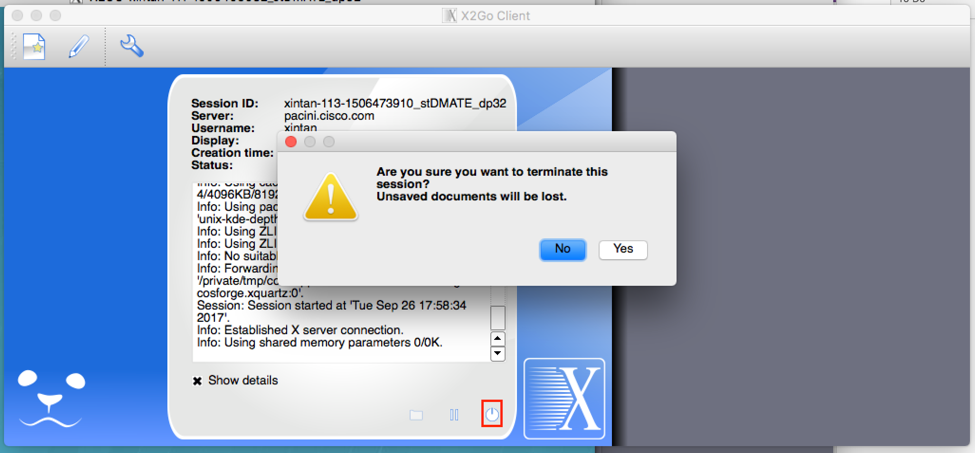
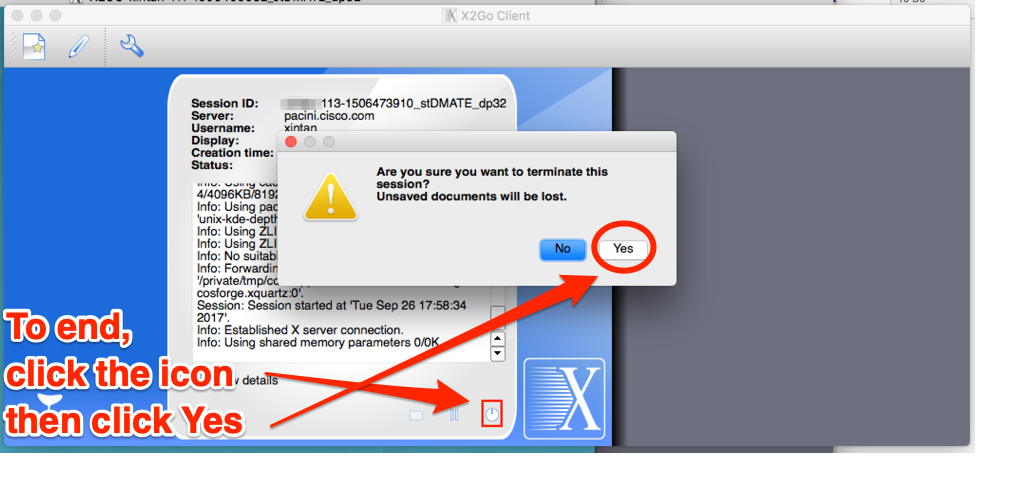
Fixed X2Go and matlab loginf for pacini

diff --git a/faq.html b/faq.html
@@ -70,7 +70,7 @@
 		<li> <a href="#arcetri-account">How can I obtain an Arcetri account?</a>
 		<li> <a href="#unix-arcetri-key">How do I use Unix/Linux/macOS to generate SSH keys?</a>
 		<li> <a href="#windows-arcetri-key">How do I use Windows to generate SSH keys?</a>
-		<li> <a href="#arcetri-login">How do I login to Arcetri?</a>
+		<li> <a href="#arcetri-login">How do I login to the pacini head node on Arcetri?</a>
 		<li> <a href="#arcetri-contact">Who do I contact if I need help with Arcetri?</a>
 		<li> <a href="#arcetri-names">What is the meaning behind the names, Pacini, Franco and Arcetri?</a>
 		<li> <a href="#arcetri-differences">What is the difference between Pacini and Arcetri?</a>
@@ -170,7 +170,7 @@
 			your VPN password over the phone.
 			</p>
 			<p>
-			<a name="windows-arcetri-key"></a>
+			<a name="unix-arcetri-key"></a>
 			After your account is created, see how to login to Arcetri.
 			</p>
 		    </div>
@@ -214,7 +214,7 @@
 			    </ul>
 			    <b>3. Send us public SSH key</b>
 			    Attach your <code>id_rsa.pub</code> file to your account request email.<br>
-			    <a name="arcetri-login"></a>
+			    <a name="windows-arcetri-key"></a>
 			    <b>WARNING:</b> send <code>id_rsa.pub</code>, not <code>id_rsa</code> file! <code>id_rsa</code> is your private confidential key, similar to your passwords!
 			</p>
 		    </div>
@@ -288,7 +288,7 @@
 			    <b>Step 2: F. Detail's of the imported key will be displayed.</b> (see above)
 			    </p>
 			    <p>
-			    <a name="unix-arcetri-key"></a>
+			    <a name="arcetri-login"></a>
 			    <b>WARNING:</b> Send <code>id_rsa.pub</code>, not <code>id_rsa</code> file!
 			    <code>id_rsa</code> is your private confidential key, similar to your passwords!
 			</p>
@@ -299,7 +299,7 @@
 		    <div class="card-header" role="tab" id="headingOne">
 			<h5 class="mb-0">
 			    <a href="#arcetri-login">
-				How do I login to Arcetri?
+				How do I login to the pacini head node on Arcetri?
 			    </a>
 			    &nbsp;&nbsp;&nbsp;&nbsp;&nbsp;&nbsp;&nbsp;&nbsp;<a href="#top">(jump to top)</a>
 			</h5>
@@ -548,32 +548,57 @@
 			  should XQuartz take too long to initialize and start.</p>
 
 			<p>
+			<h4>Login to pacini using ssh over Cisco AnyConnect</h4>
+			<p>In order to be able to connect to pacini using the
+			   X2Go client connection over ssh. one needs to
+			   first establish a VPN connection to <b>arcetri-asa.cisco.com</b>.
+			</p>
+			<p> For more information, see:
+			    <a href="#arcetri-login">
+				How do I login to the pacini head node on Arcetri?
+			    </a>
+			</p>
+
+			<p>
 			<h4>X2Go client connection over ssh</h4>
 			<p>Run the X2Go client and select the pacini profile.</p>
 			<p>NOTE: The pacini profile was created in the
 			   <b>X2Go Client configuration</b> step above.</p>
 			<p>NOTE: The X2Go client on macOS is called <b>x2goclient</b>.</p>
-			<img src="img/faq/graphical/osx-4.png" width="70%"><br>
+			<img src="img/faq/graphical/osx-4.png" width="70%"><br><br>
 
-			<br>Click the session card to start the session<br>
-			<img src="img/faq/graphical/osx-5.png" width="70%"><br>
+			<p>Double click the <b>Pacini</b> session card to start the session</p>
+			<img src="img/faq/graphical/osx-5.png" width="70%"><br><br>
 
-			<br>You should see full desktop on pacini<br>
+			<p>Be <b>patient</b> as the X2Go client launches a KDE desktop
+			   as a new X Window.
+			   This can take longer to start then you might think,
+			   and certainly takes longer then starting just a simple
+			   ssh connection.</p>
 			<img src="img/faq/graphical/osx-6.png" width="70%"><br>
 			</p>
 
 			<p>
 			<h4>Open a Terminal window</h4>
-			<br>You may access a shell prompt via the Terminal desktop application.<br>
-			<img src="img/faq/graphical/osx-7.png" width="70%"><br>
-			For example:<br>
+			<p>You may access a shell prompt via the Terminal desktop application.</p>
+			<img src="img/faq/graphical/osx-7.png" width="70%"><br><br>
+
+			<p>For example:</p>
 			<img src="img/faq/graphical/osx-8.png" width="70%"><br>
 
 			<p>
-			<h4>To end the session</h4>
-			<img src="img/faq/graphical/osx-10.png" width="70%"><br>
+			<h4>To end the X2Go session</h4>
+			<p>To end the X2Go client session, click on the stop buttion
+			   (see below) obn the main X2Go client window:</p>
+			<img src="img/faq/graphical/osx-10.png" width="70%">
+			<p>click ((<b>Yes</b>))</p>
+
+			<p>After clicking ((<b>Yes</b>)) the X2Go client window will
+			   show you a Login / Password field.</p>
 			<a name="graphical-matlab"></a>
-			<p>click ((Yes))</p>
+			<p>Because we do NOT use a password based ssh, this field will not work.
+			   Just click ((<b>Cancel</b>)) to restore the Pacini profile.</p>
+			<img src="img/faq/graphical/osx-11.png" width="70%">
 		    </div>
 		</div>
 
@@ -597,20 +622,16 @@
 			<img src="img/faq/graphical/osx-7.png" width="70%"><br>
 
 			<p>
-			<h4>module load</h4>
-			<img src="img/faq/graphical/osx-8.png" width="70%"><br>
-			<ol>
-			    <li>Load desired version of Matlab by “module load” command. </li>
-			    <li>Launch Matlab</li>
-			</ol>
+			<h4>module load matlab</h4>
+			<img src="img/faq/graphical/osx-8.png" width="70%"><br><br>
+			<p>You need to be sure the matlab module is loaded
+			   before you run matlab.</p>
 
+			<p>
+			<h4>run matlab</h4>
 			<img src="img/faq/graphical/osx-9.png" width="70%"><br>
-			Matlab should be up and running by this point.
-
-			<h4>To end the session</h4>
-			<img src="img/faq/graphical/osx-10.png" width="70%"><br>
 			<a name="modules-what"></a>
-			<p>Click ((Yes))</p>
+			Matlab should be up and running by this point.
 		    </div>
 		</div>
 	    </div>
